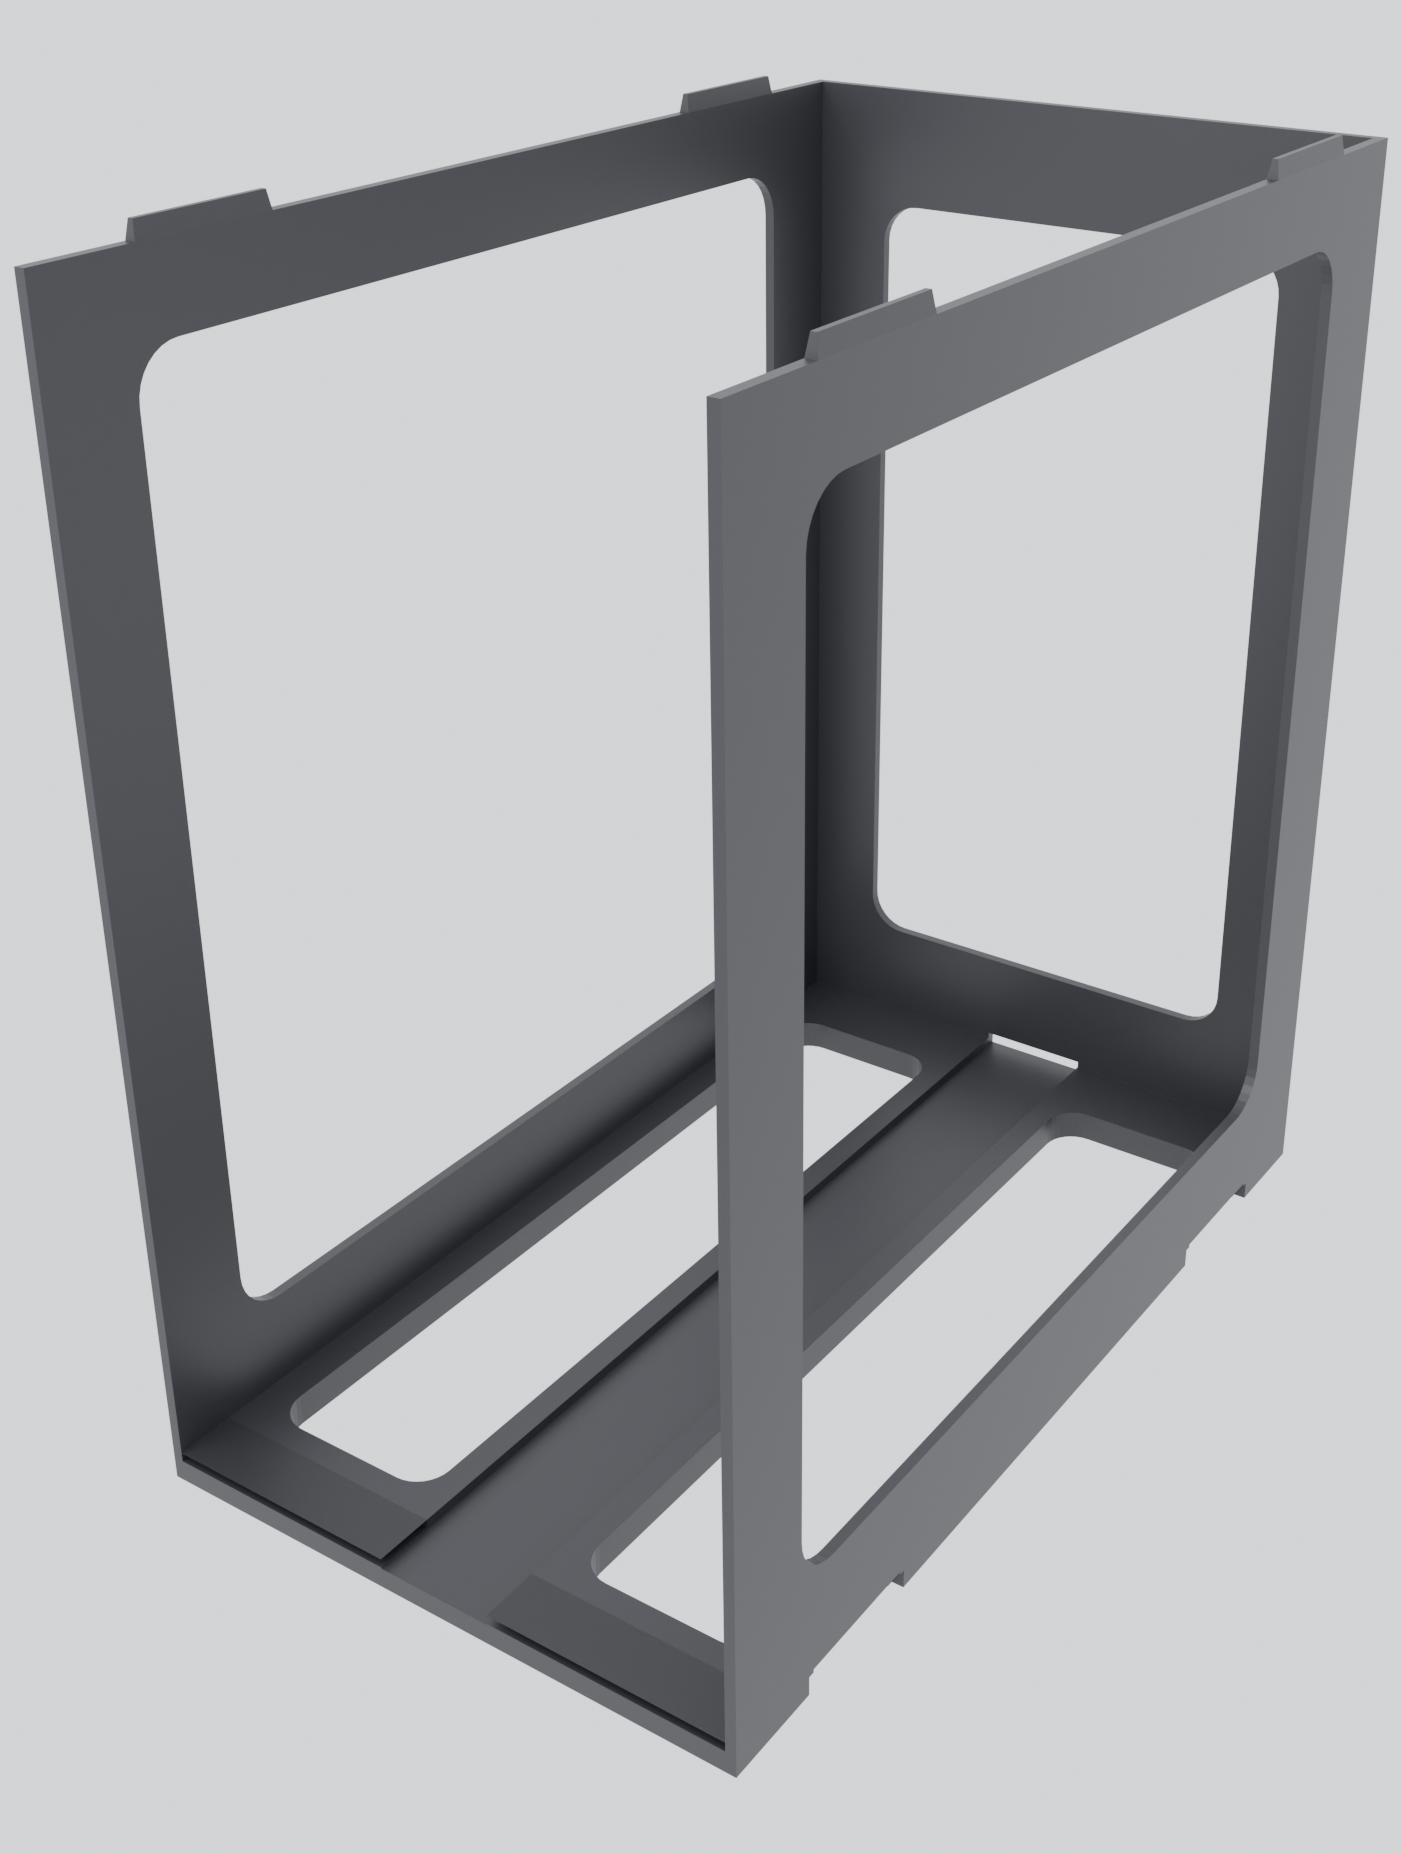
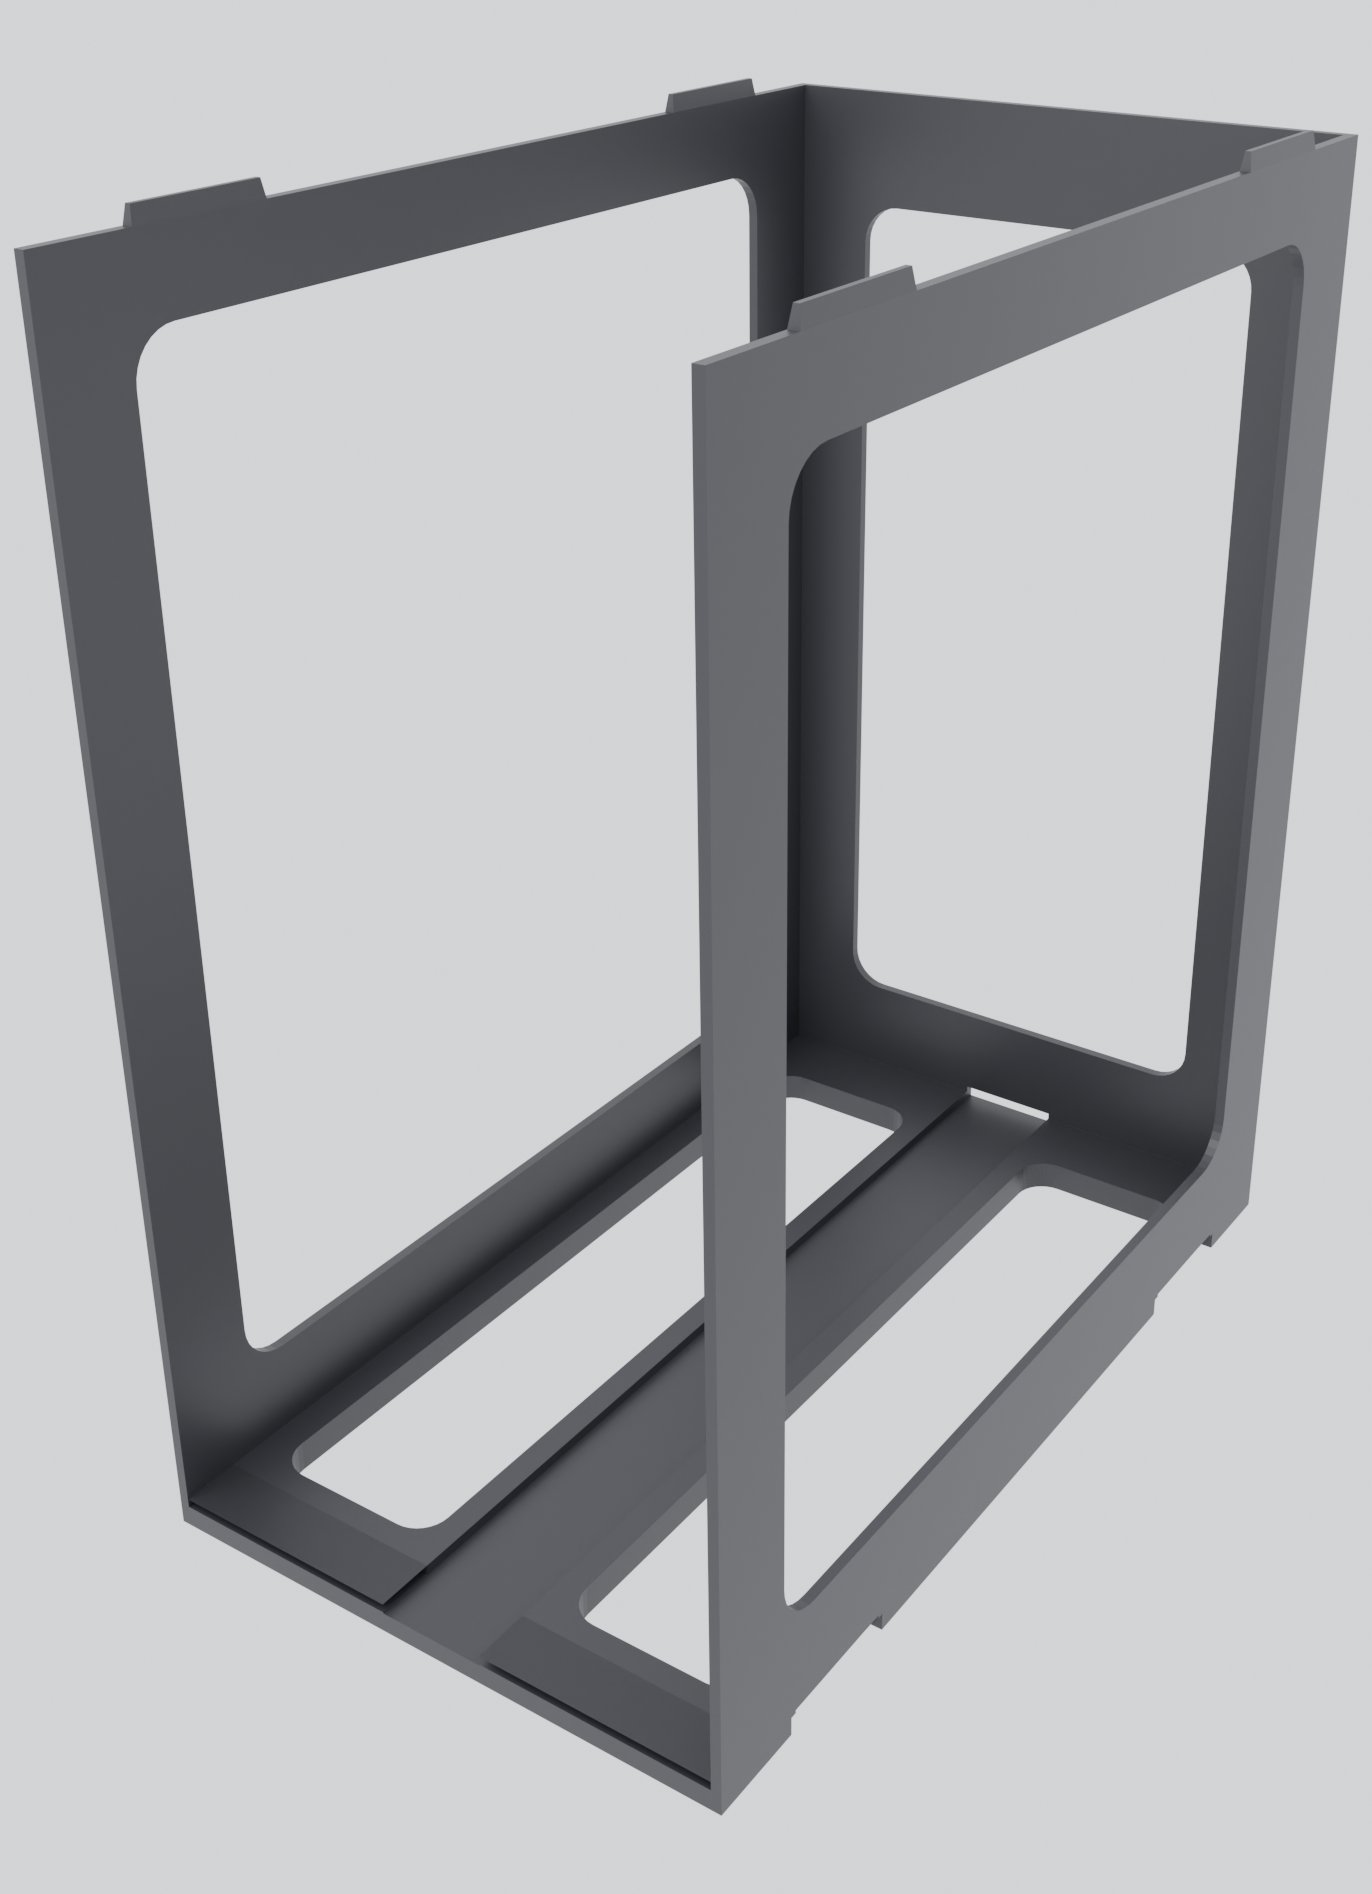
FutterStorage: README auf Greifraum, Feder und Segmentmatrix

diff --git a/FutterStorage/README.md b/FutterStorage/README.md
@@ -5,8 +5,13 @@ und Baugleiches). Waagerechte Kanäle über die volle Schranktiefe, eine
 Konstantkraftfeder schiebt die Beutel nach vorne, entnommen wird immer der
 vorderste. Die Ebenen stehen direkt aufeinander — kein toter Raum.
 
+Gegriffen wird an der **Oberkante** des Beutels: über ihm bleiben 42 mm
+Greifraum, gerade so viel, dass zwei Finger neben die Kante passen. Diese
+42 mm bestimmen die Ebenenhöhe von 182,8 mm und damit, dass drei Ebenen
+550 mm Fachhöhe brauchen.
+
 **Ausbau:** 5 Spalten × 3 Ebenen = 15 Sorten, 375 Beutel
-**Passt in:** 540 × 500 × 520 mm nutzbaren Schrankraum
+**Passt in:** 540 × 500 × 550 mm nutzbaren Schrankraum
 **Druckbett:** ab 180 × 180 mm (Bambu Lab A1 mini)
 
 ---
@@ -29,7 +34,7 @@ Dann `stl/*.stl` in den Slicer. Die vollständige Anleitung liegt in
 |---|---|---|
 | `modell/` | Die OpenSCAD-Quelle — alle Maße als Variablen | von Hand |
 | `werkzeuge/` | Skripte, die alles Weitere erzeugen | von Hand |
-| `stl/` | Druckfertige Bauteile, dazu ein Schild je Sorte | erzeugt |
+| `stl/` | Druckfertige Bauteile; `segmente/` enthält die 27 Varianten | erzeugt |
 | `zeichnungen/` | Sieben bemaßte SVG-Blätter | erzeugt |
 | `bilder/` | Renderings in voller Auflösung | erzeugt |
 | `paket/` | Die fertige Dokumentation zum Weitergeben | erzeugt |
@@ -46,6 +51,7 @@ entsteht daraus neu.
 | `zeichnungen.py` | Bemaßte SVG-Blätter, prüft sich selbst auf Überdeckungen |
 | `rendern.py` | Blender-Szenen mit automatischer Kamerarahmung |
 | `schilder.py` | Ein Schild je Futtersorte, als STL und als Bild |
+| `symbole-pruefen.py` | Misst jedes Sortensymbol auf Zentrierung und Größe |
 | `seiten.py` | Baut die HTML-Dokumentation und das ZIP |
 
 ### Alles neu bauen
@@ -53,9 +59,11 @@ entsteht daraus neu.
 ```bash
 python3 werkzeuge/stl-bauen.py
 python3 werkzeuge/pruefen.py
+python3 werkzeuge/symbole-pruefen.py
 python3 werkzeuge/schilder.py beide
 python3 werkzeuge/zeichnungen.py
-for s in front mitte end schieber schild kanal explosion gefuellt ebene gesamt; do
+for s in front mitte end schieber schild kanal explosion gefuellt ebene gesamt \
+         entnahme greifraum; do
     blender -b -P werkzeuge/rendern.py -- $s bilder/b_$s.png
 done
 python3 werkzeuge/seiten.py
@@ -70,7 +78,8 @@ Alle Maße stehen oben in `modell/katzenfutter-regal.scad`. Die wichtigsten:
 | Variable | Standard | Wirkung |
 |---|---|---|
 | `beutel_breit` | 88 | bestimmt die Spaltenbreite und damit, wie viele Spalten passen |
-| `beutel_hoch` | 136 | bestimmt die Ebenenhöhe |
+| `beutel_hoch` | 136 | bestimmt zusammen mit `luft_oben` die Ebenenhöhe |
+| `luft_oben` | 42 | Greifraum über dem Beutel — darunter wird die Entnahme zur Fummelei |
 | `beutel_dicke` | 19 | bestimmt die Kapazität je Kanal |
 | `segment_laenge` | 160 | muss auf das Druckbett passen |
 | `passung` | 0,2 | Spiel je Flanke — bei strammem Sitz erhöhen |
@@ -79,6 +88,22 @@ Alle Maße stehen oben in `modell/katzenfutter-regal.scad`. Die wichtigsten:
 
 Nach jeder Änderung `stl-bauen.py` und `pruefen.py` laufen lassen. Zeichnungen
 und Renderings lesen die Maße selbst aus dem Modell und passen sich an.
+
+---
+
+## Die 27 Segmentvarianten
+
+Ein Segment sitzt an drei Stellen zugleich, und an jedem Rand des Verbunds
+fällt weg, was ins Leere greifen würde:
+
+| Achse | Werte | Was sich ändert |
+|---|---|---|
+| Tiefe | `front` · `mitte` · `end` | Anschlagwand vorne, Rückwand hinten |
+| Höhe | `unten` · `mitte` · `oben` | oben ohne Stapelzapfen, unten ohne Taschen |
+| Breite | `links` · `mitte` · `rechts` | außen ohne Verbindertasche |
+
+Der Vollausbau braucht 45 Segmente, und jede der 27 Varianten kommt darin
+mindestens einmal vor. `stl-bauen.py` gibt die Stückliste am Ende aus.
 
 ---
 
@@ -98,9 +123,13 @@ benachbarte Spalten durchdringen.
 
 ## Was gekauft werden muss
 
-Je Kanal eine **Konstantkraftfeder** (8–12 N, Auszug ≥ 500 mm, Band 16 mm,
-Rolle ≤ 26 mm) und einen **3-mm-Rundstab** als Achse. Sonst nichts — keine
-Schrauben, keine Muttern, kein Kleber.
+Je Kanal eine **Konstantkraftfeder CF030-0237** (10,5 N, Auszug 610 mm,
+Band 15 mm) und einen **3-mm-Rundstab aus Edelstahl** als Achse. Sonst
+nichts — keine Schrauben, keine Muttern, kein Kleber.
+
+Die Feder wickelt **nicht** direkt auf der Achse: dafür liegt
+`stl/trommel.stl` bei, die frei auf ihr läuft. Bezugsquellen, Preise und
+die Begründung der Auswahl stehen in [BAUTEILE.md](BAUTEILE.md).
 
 ---
 
